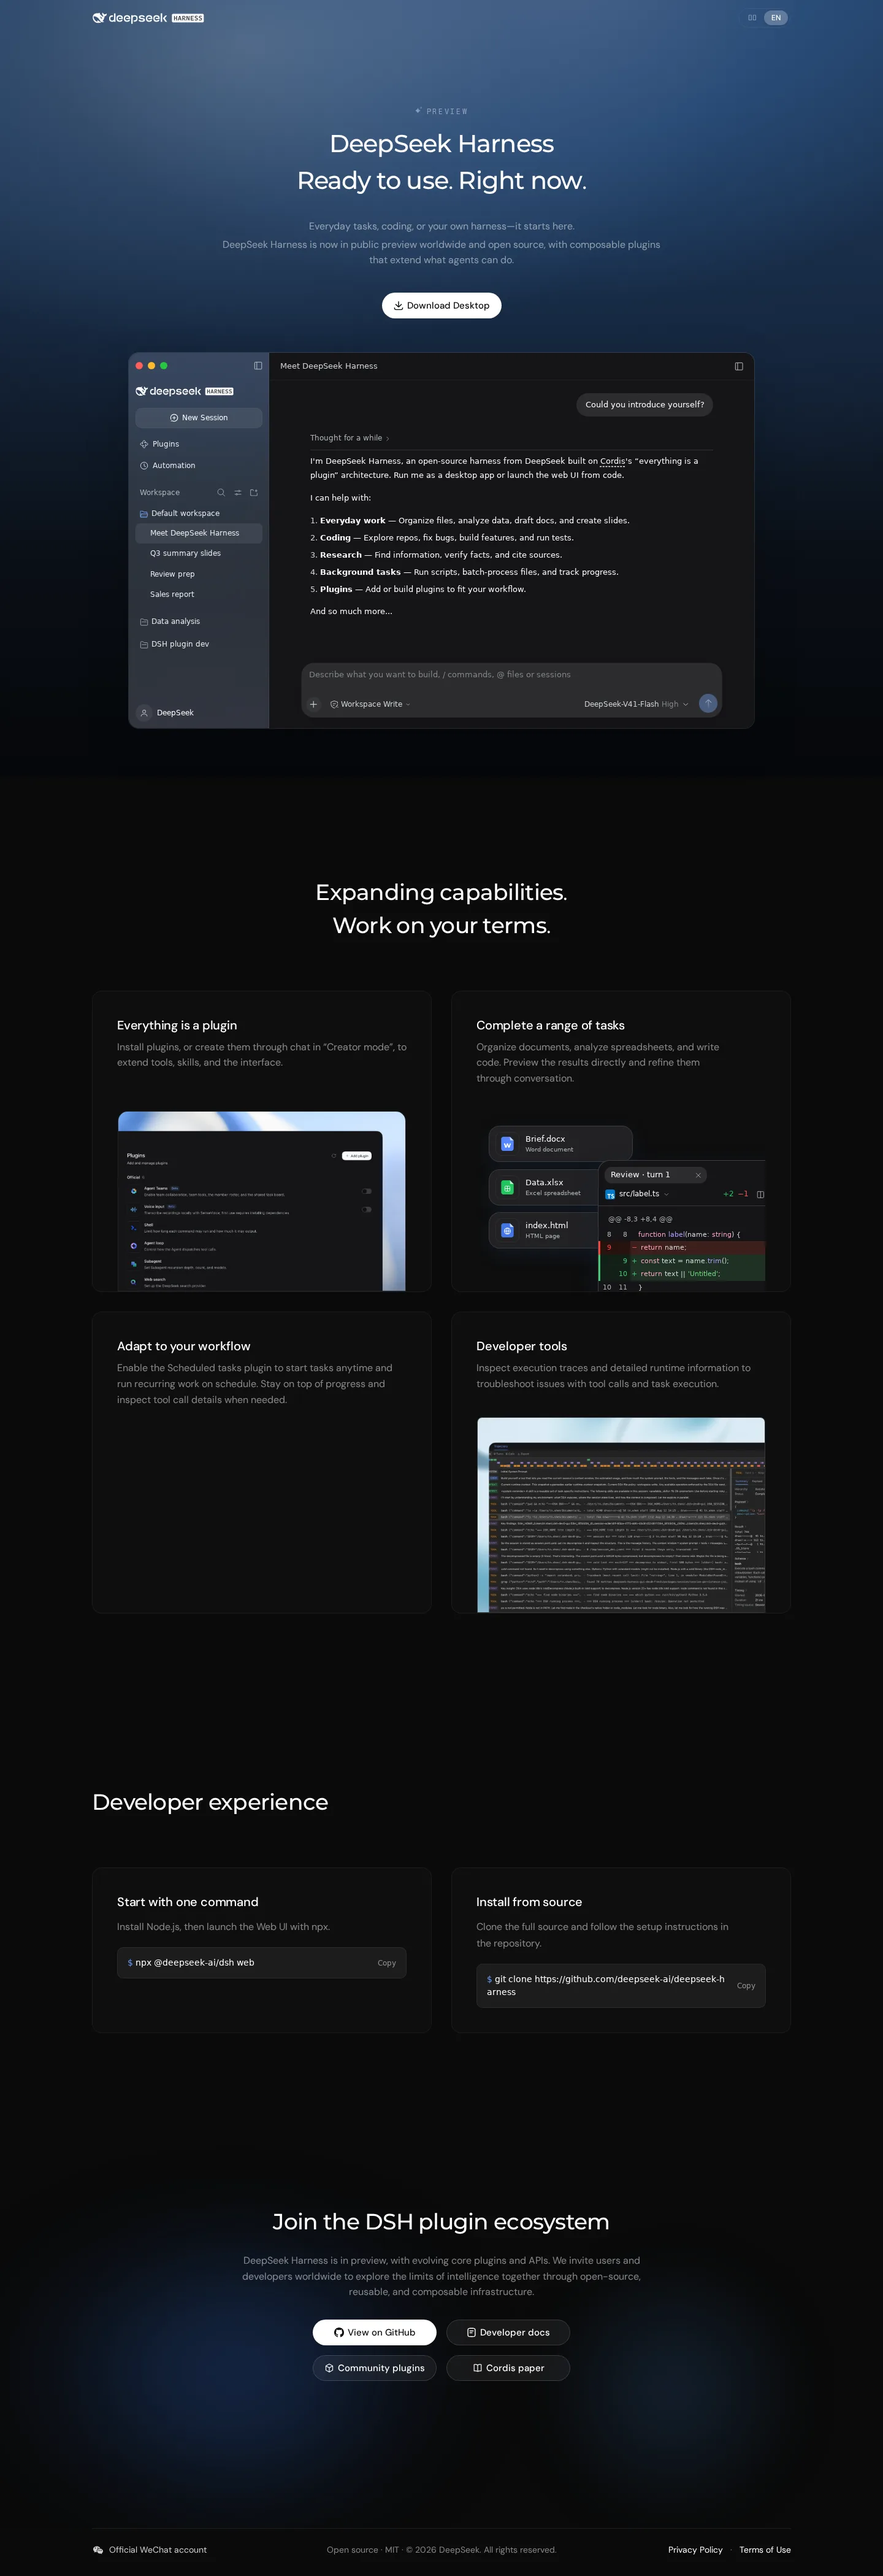
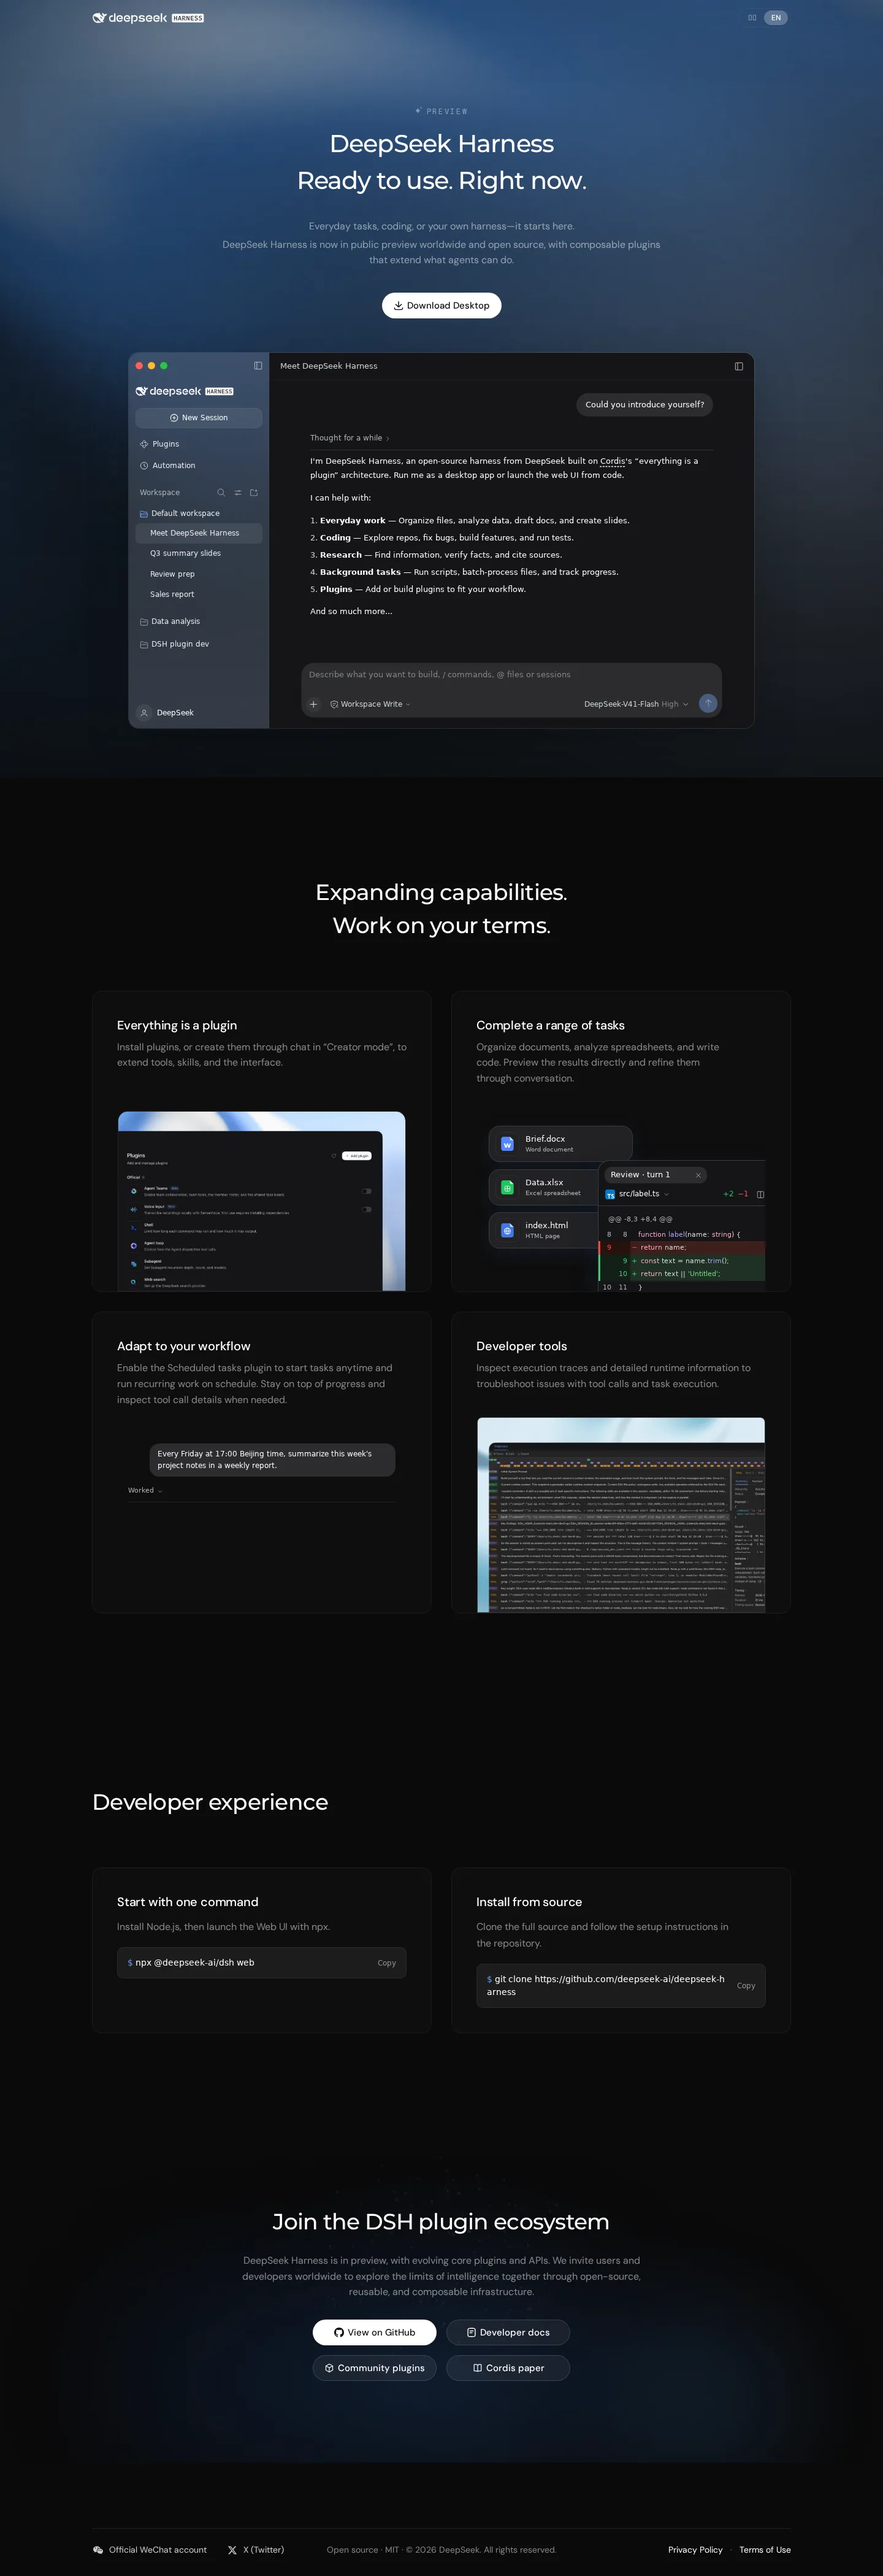
feat: close visual and behaviour gaps
- Capture the original hero canvas and products glow as static backdrops
- Add the X (Twitter) footer link
- Freeze the scheduled-task card on its final frame
- Port interactions: mobile menu, download menus, copy buttons
- Scroll-driven reveal via CSS view timelines
- Refresh preview screenshot (pixel diff vs live: 5.7%)

diff --git a/components/Interactions.jsx b/components/Interactions.jsx
@@ -1,0 +1,123 @@
+"use client";
+
+import { useEffect } from "react";
+
+/**
+ * The live page ships its own client components for these controls. The clone
+ * is static markup, so the small amount of behaviour it needs is ported here:
+ * mobile menu, mobile download accordion, desktop download menu, copy buttons.
+ */
+export default function Interactions() {
+  useEffect(() => {
+    const cleanups = [];
+
+    /* ---------------------------------------------------------------- menu */
+    const trigger = document.querySelector('[aria-controls="harness-mobile-menu"]');
+    const menu = document.getElementById("harness-mobile-menu");
+    const close = menu?.querySelector(".ds-mobile-menu-header button");
+    const setMenu = (open) => {
+      menu?.classList.toggle("is-open", open);
+      trigger?.setAttribute("aria-expanded", String(open));
+      document.documentElement.style.overflow = open ? "hidden" : "";
+    };
+    const onTrigger = () => setMenu(!menu?.classList.contains("is-open"));
+    trigger?.addEventListener("click", onTrigger);
+    close?.addEventListener("click", () => setMenu(false));
+    cleanups.push(() => trigger?.removeEventListener("click", onTrigger));
+
+    /* ------------------------------------------- mobile download accordion */
+    const dlTrigger = document.querySelector(".harness-mobile-download-trigger");
+    const dlRoot = dlTrigger?.closest(".harness-mobile-download");
+    const dlPanel = document.getElementById("harness-mobile-download-options");
+    const onDl = () => {
+      const open = dlRoot?.getAttribute("data-open") !== "true";
+      dlRoot?.setAttribute("data-open", String(open));
+      dlTrigger?.setAttribute("aria-expanded", String(open));
+      dlPanel?.setAttribute("aria-hidden", String(!open));
+    };
+    dlTrigger?.addEventListener("click", onDl);
+    cleanups.push(() => dlTrigger?.removeEventListener("click", onDl));
+
+    /* ------------------------------------------------- desktop download menu */
+    const CTAS = document.querySelectorAll('a[href="/en/download/"]');
+    const DOWNLOADS = [
+      ["macOS (Apple silicon)", "https://download.deepseek.com/desktop/dsh-latest-macos-arm64.dmg"],
+      ["Windows (64-bit)", "https://download.deepseek.com/desktop/dsh-latest-windows-x64.exe"],
+      ["All downloads", "https://www.deepseek.com/en/download/"],
+    ];
+    const menus = [];
+    const closeMenus = () => {
+      menus.forEach((el) => el.remove());
+      menus.length = 0;
+    };
+    const openMenu = (anchor) => {
+      closeMenus();
+      const parent = anchor.parentElement;
+      if (!parent) return;
+      if (getComputedStyle(parent).position === "static") parent.style.position = "relative";
+      const panel = document.createElement("div");
+      panel.setAttribute("role", "menu");
+      panel.style.cssText = [
+        "position:absolute", "top:calc(100% + 8px)", "left:50%", "transform:translateX(-50%)",
+        "z-index:80", "min-width:230px", "padding:6px", "border-radius:12px",
+        "background:rgba(18,20,24,.96)", "border:1px solid rgba(255,255,255,.14)",
+        "box-shadow:0 18px 50px rgba(0,0,0,.55)", "backdrop-filter:blur(12px)",
+      ].join(";");
+      for (const [label, href] of DOWNLOADS) {
+        const link = document.createElement("a");
+        link.href = href;
+        link.target = "_blank";
+        link.rel = "noopener noreferrer";
+        link.setAttribute("role", "menuitem");
+        link.textContent = label;
+        link.style.cssText =
+          "display:block;padding:9px 12px;border-radius:8px;font-size:13px;color:#f9fafb;text-decoration:none;white-space:nowrap";
+        link.addEventListener("mouseenter", () => (link.style.background = "rgba(255,255,255,.08)"));
+        link.addEventListener("mouseleave", () => (link.style.background = "transparent"));
+        panel.appendChild(link);
+      }
+      parent.appendChild(panel);
+      menus.push(panel);
+    };
+    const onCta = (event) => {
+      const anchor = event.target.closest('a[href="/en/download/"]');
+      if (!anchor) return;
+      event.preventDefault();
+      if (menus.length) closeMenus();
+      else openMenu(anchor);
+    };
+    document.addEventListener("click", onCta);
+    document.addEventListener("keydown", (e) => e.key === "Escape" && closeMenus());
+    cleanups.push(() => document.removeEventListener("click", onCta));
+
+    /* ---------------------------------------------------------- copy buttons */
+    const onCopy = async (event) => {
+      const button = event.target.closest("button");
+      if (!button || button.textContent.trim() !== "Copy") return;
+      const scope =
+        button.closest(".min-w-0") || button.closest("section") || button.parentElement;
+      const source = scope?.querySelector("code, pre, [data-copy-value]");
+      const value = (source?.textContent || "").trim();
+      if (!value) return;
+      try {
+        await navigator.clipboard.writeText(value);
+      } catch {
+        const area = document.createElement("textarea");
+        area.value = value;
+        document.body.appendChild(area);
+        area.select();
+        document.execCommand("copy");
+        area.remove();
+      }
+      const original = button.textContent;
+      button.textContent = "Copied";
+      setTimeout(() => (button.textContent = original), 1500);
+    };
+    document.addEventListener("click", onCopy);
+    cleanups.push(() => document.removeEventListener("click", onCopy));
+
+    return () => cleanups.forEach((fn) => fn());
+  }, []);
+
+  return null;
+}

diff --git a/components/Ecosystem.jsx b/components/Ecosystem.jsx
@@ -7,13 +7,12 @@ export default function Ecosystem() {
       <div className="absolute -inset-[30%] z-0 pointer-events-none hidden md:block" style={{ "mixBlendMode": "screen", "transform": "translateY(-8%)", "mask": "radial-gradient(ellipse 60% 60% at center, black 0%, transparent 70%)", "WebkitMask": "radial-gradient(ellipse 60% 60% at center, black 0%, transparent 70%)" }}>
         <template data-dgst="NEXT_DYNAMIC_NO_SSR_CODE" />
       </div>
-      <div className="absolute top-[80px] left-0 w-full h-[500px] pointer-events-none z-0" data-reveal>
-        <div className="absolute inset-0" style={{ "mask": "linear-gradient(to bottom, transparent 0%, black 20%, black 80%, transparent 100%), linear-gradient(to right, transparent 0%, black 15%, black 85%, transparent 100%)", "maskComposite": "intersect", "WebkitMaskComposite": "source-in" }}>
-          <canvas style={{ "position": "absolute", "top": "0", "left": "0", "width": "100%", "height": "100%", "background": "transparent" }} />
-        </div>
-        <div className="absolute bottom-[-100px] left-[10%] w-[500px] h-[500px] opacity-30" style={{ "background": "radial-gradient(circle, #1A3870 0%, transparent 70%)", "filter": "blur(80px)" }} />
-        <div className="absolute bottom-[-50px] left-[50%] -translate-x-1/2 w-[700px] h-[400px] opacity-40" style={{ "background": "radial-gradient(ellipse at center, #2D5F9E 0%, #1A3870 40%, transparent 70%)", "filter": "blur(100px)" }} />
-        <div className="absolute bottom-[-80px] right-[10%] w-[400px] h-[400px] opacity-20" style={{ "background": "radial-gradient(circle, #4A8AC4 0%, #2D5F9E 30%, transparent 70%)", "filter": "blur(60px)" }} />
+      <div className="absolute top-[80px] left-0 w-full h-[500px] pointer-events-none z-0" aria-hidden="true">
+        <img
+          src="/harness/images/products-glow.webp"
+          alt=""
+          className="absolute inset-0 h-full w-full object-cover"
+        />
       </div>
       <section id="products" className="relative z-10 ds-container flex flex-col items-center text-center scroll-mt-[100px] pt-ds-11 pb-ds-13" data-reveal style={{ "minHeight": "min(60vh, 720px)" }}>
         <h2 className="harness-heading ds-text-heading1 text-ds-primary">

diff --git a/app/globals.css b/app/globals.css
@@ -43,8 +43,58 @@
  * is a CSS approximation sampled from a rendering of that canvas.
  * ------------------------------------------------------------------------- */
 .hero-aurora {
-  background:
-    radial-gradient(80% 55% at 28% 6%, rgba(122, 140, 160, 0.5) 0%, rgba(72, 100, 138, 0.35) 38%, rgba(30, 50, 80, 0) 72%),
-    radial-gradient(95% 70% at 62% -4%, rgba(73, 99, 138, 0.95) 0%, rgba(41, 77, 123, 0.8) 32%, rgba(23, 45, 74, 0.5) 62%, rgba(5, 7, 10, 0) 100%),
-    linear-gradient(180deg, #2b4a70 0%, #16273e 40%, #0a0f16 72%, #05070a 100%);
+  background-color: #05070a;
+  background-image: url("/harness/images/hero-canvas.webp");
+  background-size: cover;
+  background-position: top center;
+  background-repeat: no-repeat;
+}
+
+/* Scroll-driven reveal for the cards that the live site animates from JS.
+   CSS animations outrank the inline final states baked into the captured DOM. */
+@supports (animation-timeline: view()) {
+  [class*="_entrance__"] {
+    animation: ds-reveal linear both;
+    animation-timeline: view();
+    animation-range: entry 5% cover 30%;
+  }
+
+  @keyframes ds-reveal {
+    from {
+      opacity: 0;
+      transform: translateY(24px);
+    }
+    to {
+      opacity: 1;
+      transform: none;
+    }
+  }
+}
+
+/* The scheduled-task preview is a keyframe story driven by the site's JS.
+   Freeze it on its final frame so the static page shows the same result. */
+.HarnessWorkflowPreview_story__lcRCk,
+.HarnessWorkflowPreview_process__plBvM,
+.HarnessWorkflowPreview_disclosure__33P7k,
+.HarnessWorkflowPreview_finishedLabel__s__3R,
+.HarnessWorkflowPreview_settledSummary__peB18,
+.HarnessWorkflowPreview_result__K6zbj,
+.HarnessWorkflowPreview_completion__MaAG1 {
+  animation: none !important;
+}
+
+.HarnessWorkflowPreview_finishedLabel__s__3R,
+.HarnessWorkflowPreview_settledSummary__peB18,
+.HarnessWorkflowPreview_result__K6zbj,
+.HarnessWorkflowPreview_completion__MaAG1 {
+  opacity: 1 !important;
+}
+
+.HarnessWorkflowPreview_disclosure__33P7k {
+  grid-template-rows: 1fr !important;
+}
+
+.HarnessWorkflowPreview_workingLabel__HfIiD,
+.HarnessWorkflowPreview_pendingSummary__YYMCa {
+  display: none !important;
 }

diff --git a/components/SiteFooter.jsx b/components/SiteFooter.jsx
@@ -27,6 +27,19 @@ export default function SiteFooter() {
               </div>
             </div>
           </div>
+          <a
+            className="flex items-center gap-ds-2 text-ds-secondary hover:text-ds-primary transition-colors"
+            href="https://x.com/DeepSeekHarness"
+            target="_blank"
+            rel="noopener noreferrer"
+          >
+            <span className="w-5 h-5 flex items-center justify-center" aria-label="X/Twitter">
+              <svg width="16" height="16" viewBox="0 0 24 24" fill="currentColor">
+                <path d="M18.205 2.25h3.308l-7.227 8.26l8.502 11.24H16.13l-5.214-6.817L4.95 21.75H1.64l7.73-8.835L1.215 2.25H8.04l4.713 6.231zm-1.161 17.52h1.833L7.045 4.126H5.078z" />
+              </svg>
+            </span>
+            <span className="ds-text-caption whitespace-nowrap">{"X (Twitter)"}</span>
+          </a>
         </div>
         <p className="ds-text-caption text-ds-description text-center">
           {"Open source · MIT"}

diff --git a/app/page.jsx b/app/page.jsx
@@ -6,6 +6,7 @@ import DeveloperExperience from "@/components/DeveloperExperience";
 import Ecosystem from "@/components/Ecosystem";
 import SiteFooter from "@/components/SiteFooter";
 import Reveal from "@/components/Reveal";
+import Interactions from "@/components/Interactions";
 
 export default function Page() {
   return (
@@ -13,6 +14,7 @@ export default function Page() {
       <SiteHeader />
       <MobileMenu />
       <Reveal />
+      <Interactions />
       <main className="relative flex flex-col w-full">
         <Hero />
         <Capabilities />

diff --git a/README.md b/README.md
@@ -57,11 +57,21 @@ npm run build
 | Area | Status |
 | --- | --- |
 | Cookie banner | Not cloned on purpose |
-| Hero backdrop | Live page paints a WebGL canvas; approximated with a CSS radial gradient sampled from it |
+| Hero backdrop | Captured still of the original WebGL canvas (animated aurora is frozen) |
+| Products glow | Captured still of the original canvas layer (particle animation is frozen) |
 | Scroll-morphing header pill | Not implemented (appears on scroll on the live site) |
-| "Adapt to your workflow" card media | Rendered by client JS upstream; the static clone shows the empty frame |
-| Footer "X (Twitter)" link | Client-rendered upstream; absent here |
+| "Adapt to your workflow" card | Shows the message + "Worked" state; the completion card is deeper in the keyframe story |
 | Preview conversation | Present, static; the live page types it out |
+| Language switcher, theme toggle | Buttons present, behaviour not wired (the live site is dark-only and client-routed) |
+
+Measured pixel difference against a live capture at 1440 px (cookie banner excluded):
+**5.7 %**, almost entirely the animated canvas layers and the card story above.
+
+## Interactions
+
+`components/Interactions.jsx` ports the behaviour the static export lacks: mobile
+menu, mobile download accordion, desktop download menu (macOS / Windows / all
+downloads) and the copy buttons.
 
 ## Stack
 
